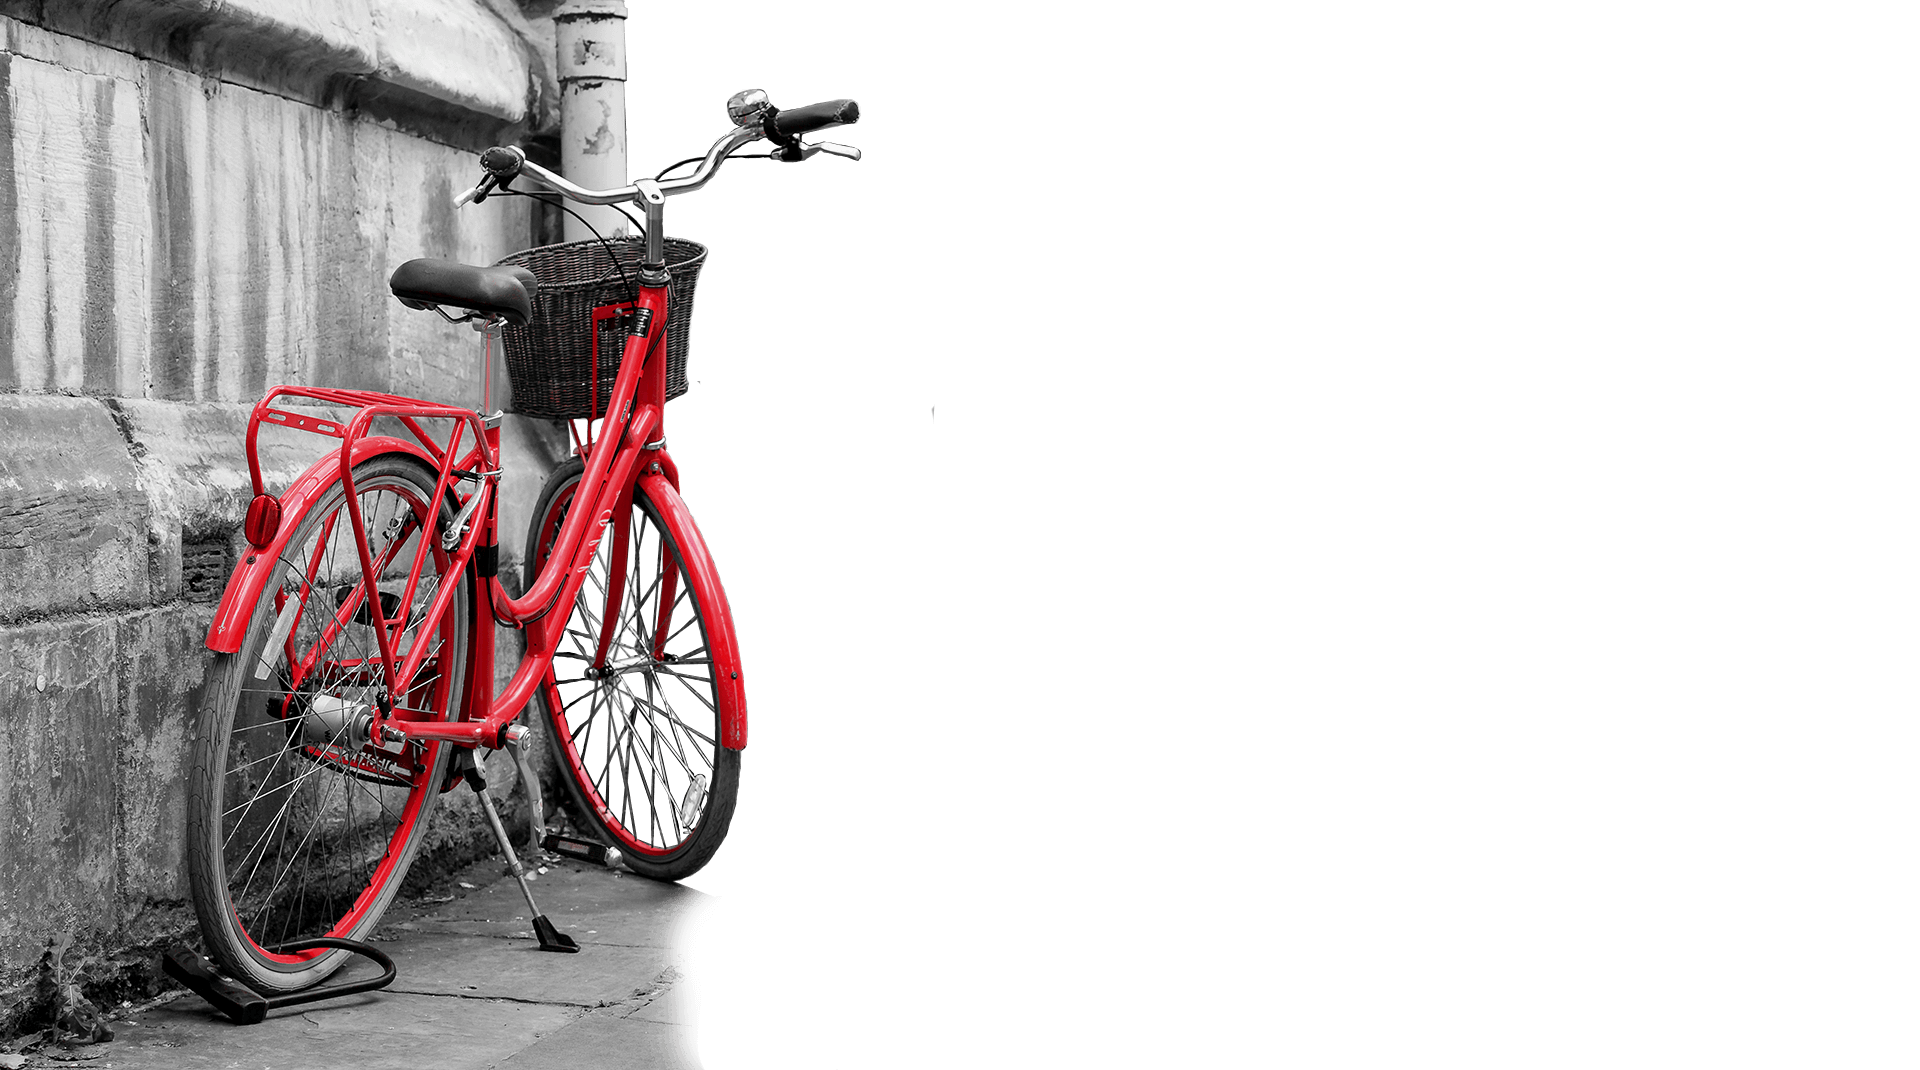
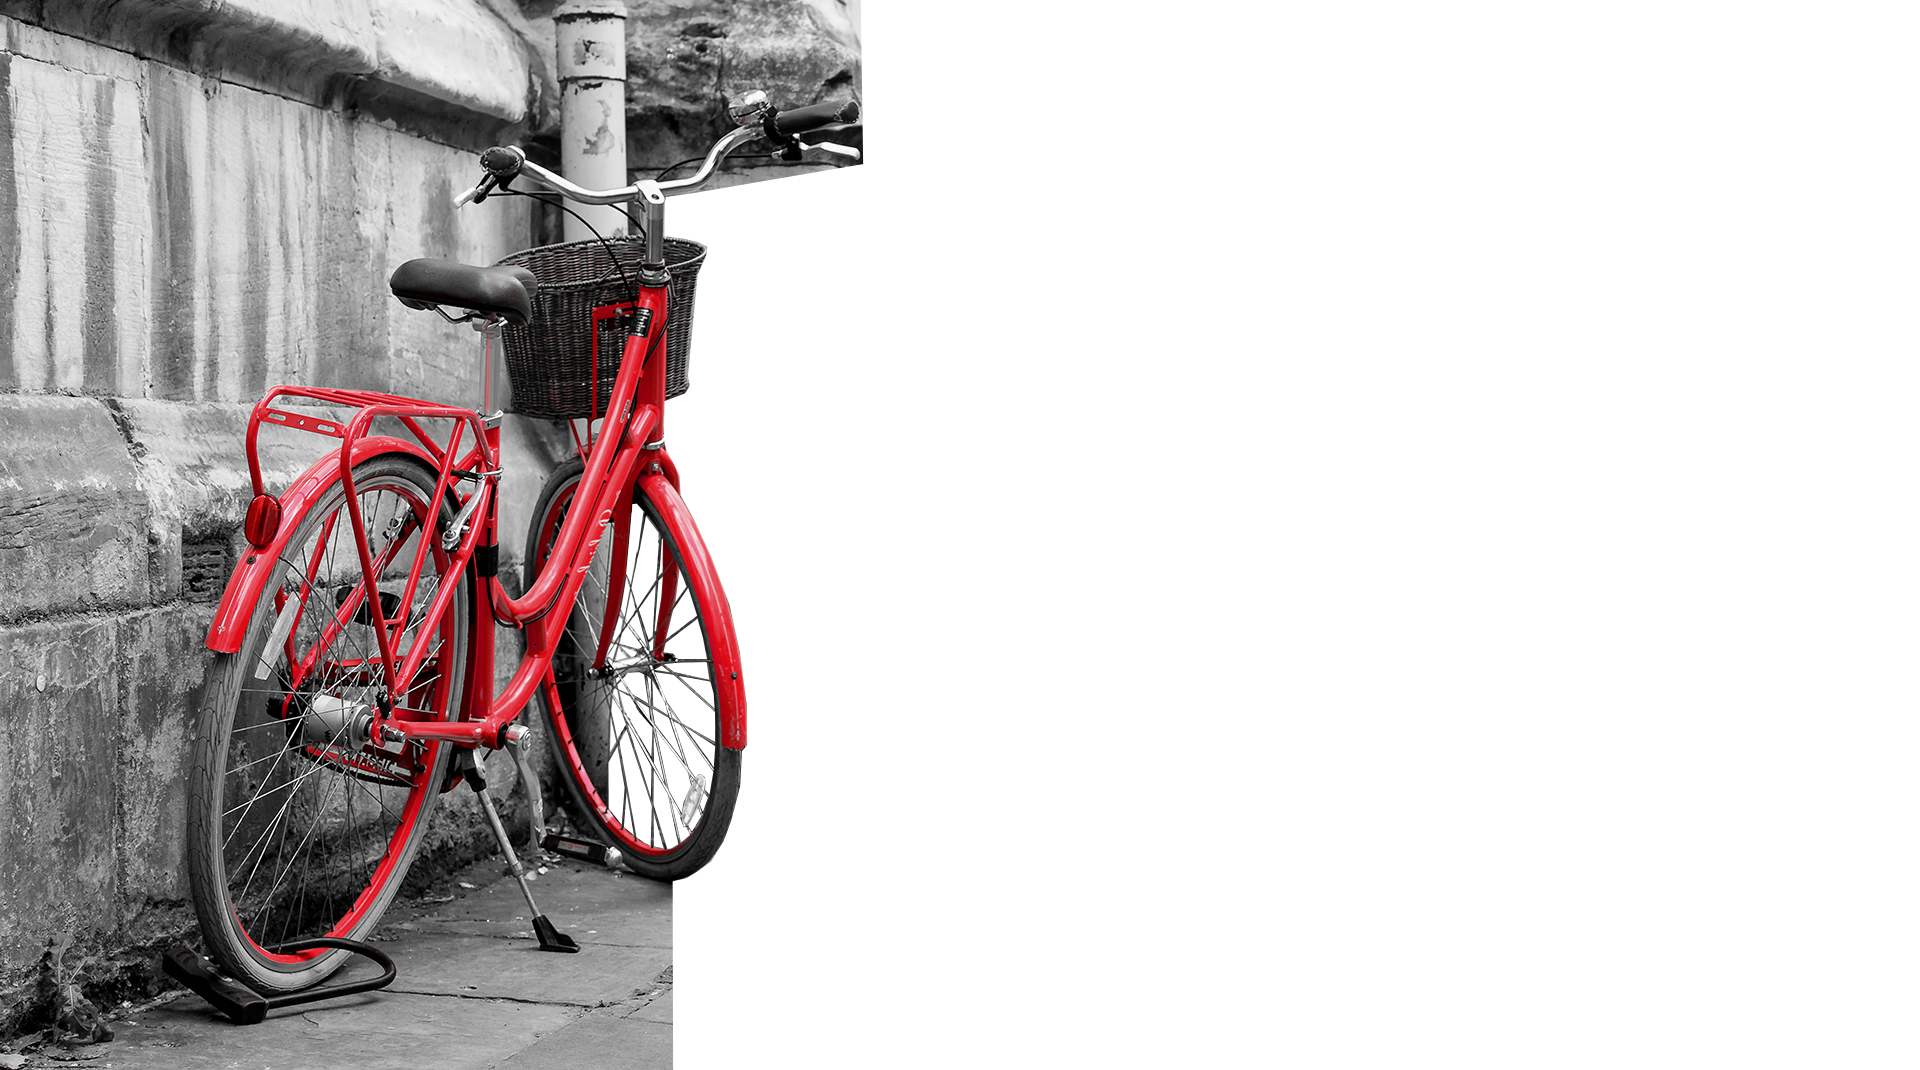
07/11 22.15

diff --git a/template/css/style.css b/template/css/style.css
@@ -131,7 +131,7 @@ button {
     background-image: url(../img/pc1920x1070.png);
     background-repeat: no-repeat;
     background-size: cover;
-    top: 350px;
+    top: 32vh;
     left: 710px;
     z-index: 9;
     overflow: hidden;
@@ -142,7 +142,7 @@ button {
         top:1070px;
     }
     100% {
-        top: 346px;
+        top: 32vh;
     }
 }
 
@@ -908,6 +908,10 @@ input.win-add-checkbox:checked + label span {
         background-size:1450px 800px;
         background-position: right bottom;
     }
+    #section3 .hover-block {
+        background-size:1450px 800px;
+        background-position: right bottom;
+    }
     #section4 .hover-block {
         background-size:1450px 800px;
         background-position: center;
@@ -993,6 +997,9 @@ input.win-add-checkbox:checked + label span {
         background-size:1280px 720px;
     }
     #section1 .hover-block {
+        background-size:1280px 720px;
+    }
+    #section3 .hover-block {
         background-size:1280px 720px;
     }
     .monitor {
@@ -1238,6 +1245,7 @@ input.win-add-checkbox:checked + label span {
     }
     #section3 .hover-block {
         background-image: url(../img/hover-bcg3-1024.png);
+        background-size:1024px 768px;
     }
     .monitor {
         width: 550px;
@@ -1498,7 +1506,8 @@ input.win-add-checkbox:checked + label span {
         background-size: 768px 1024px;
     }
     #section1 .hover-block {
-        display: none;
+        background: url(../img/hover-bcg1-768x1024.png) center no-repeat;
+        background-position: top left;
     }
     #section2 {
         background:url(../img/bcg2-768x1024.png);
@@ -1507,6 +1516,9 @@ input.win-add-checkbox:checked + label span {
     #section3 {
         background:url(../img/bcg3-768x1024.png);
         background-position: center;
+    }
+    #section3 .hover-block {
+        background: url(../img/hover-bcg3-768x1024.png) center no-repeat;
     }
     #section4 {
         background:url(../img/bcg4-768x1024.png);
@@ -1868,7 +1880,77 @@ input.win-add-checkbox:checked + label span {
     background-position: center center;
     margin-right: 0;
 }
-
+.call-order:hover {
+    animation:shaking 2s infinite;
+}
+@keyframes shaking {
+    0% {
+        transform: rotateZ(0deg);
+    }
+    2.5% {
+        transform: rotateZ(10deg);
+    }
+    5% {
+        transform: rotateZ(-10deg);
+    }
+    7.5% {
+        transform: rotateZ(10deg);
+    }
+    10% {
+        transform: rotateZ(-10deg);
+    }
+    12.5% {
+        transform: rotateZ(10deg);
+    }
+    15% {
+        transform: rotateZ(-10deg);
+    }
+    17.5% {
+        transform: rotateZ(10deg);
+    }
+    20% {
+        transform: rotateZ(-10deg);
+    }
+    22.5% {
+        transform: rotateZ(10deg);
+    }
+    25% {
+        transform: rotateZ(10deg);
+    }
+    27.5% {
+        transform: rotateZ(-10deg);
+    }
+    30% {
+        transform: rotateZ(10deg);
+    }
+    32.5% {
+        transform: rotateZ(-10deg);
+    }
+    35% {
+        transform: rotateZ(10deg);
+    }
+    37.5% {
+        transform: rotateZ(-10deg);
+    }
+    40% {
+        transform: rotateZ(10deg);
+    }
+    42.5% {
+        transform: rotateZ(-10deg);
+    }
+    45% {
+        transform: rotateZ(10deg);
+    }
+    47.5% {
+        transform: rotateZ(-10deg);
+    }
+    50% {
+        transform: rotateZ(0deg);
+    }
+    100% {
+        transform: rotateZ(0deg);
+    }
+}
 .languages {
     position: absolute;
     top: 0;
@@ -1959,6 +2041,16 @@ input.win-add-checkbox:checked + label span {
     }
 }
 
+@media all and (max-width: 1366px) {
+    .menu-desktop ul li {
+        margin-bottom: 0;
+        height: 55px;
+    }
+    .menu-desktop ul li a {
+        line-height: 55px;
+    }
+}
+
 @media all and (max-width: 1280px) {
     .phones {
         display: block;
@@ -1980,9 +2072,7 @@ input.win-add-checkbox:checked + label span {
     .languages {
         left: 70vw;
     }
-    .menu-desktop ul li {
-        margin-bottom: 0;
-    }
+    
 }
 
 @media all and (max-width: 1024px) {
@@ -2060,6 +2150,14 @@ input.win-add-checkbox:checked + label span {
         top: 180px;
         width: 465px;
         height: 430px;
+    }
+    @keyframes bottomAppearance {
+        0% {
+            left: calc(100% - 10px);
+        }
+        100% {
+            left: 150px;
+        }
     }
     .picture-box {
         top: 17px;
@@ -2577,5 +2675,118 @@ input.win-add-checkbox:checked + label span {
     }
     .menu-desktop ul {
         padding-top: 40px;
+    }
+}
+
+@media all and (width: 1024px) and (height: 1366px) {
+
+
+    .monitor {
+        left: 310px;
+        top:320px;
+    }
+    @keyframes bottomAppearance {
+        0% {
+            top: calc(100% + 10px);
+        }
+        100% {
+            top:320px;
+        }
+    }
+    #section1 {
+        background-image:url(../img/bcg1-iPadPro.png);
+        background-size: 1024px 1366px;
+    }
+    #section2 {
+        background-image:url(../img/bcg2-iPadPro.png);
+        background-size: 1024px 1366px;
+    }
+    #section3 {
+        background-image:url(../img/bcg3-iPadPro.png);
+        background-size: 1024px 1366px;
+    }
+    #section4 {
+        background-image:url(../img/bcg4-iPadPro.png);
+        background-size: 1024px 1366px;
+    }
+    #section5 {
+        background-image:url(../img/bcg5-iPadPro.png);
+        background-size: 1024px 1366px;
+        background-position: top left;
+    }
+    
+    #section1 .hover-block {
+        background-image: url(../img/hover-bcg1-iPadPro.png);
+        background-size: 1024px 1366px;
+    }
+    #section3 .hover-block {
+        background-image: url(../img/hover-bcg3-iPadPro.png);
+        background-size: 1024px 1366px;
+        background-position: top left;
+    }
+    #section4 .hover-block {
+        background-image: url(../img/hover-bcg4-iPadPro.png);
+        background-size: 1024px 1366px;
+        background-position: center;
+    }
+    #section5 .hover-block {
+        background-image: url(../img/hover-bcg5-iPadPro.png);
+        background-size: 1024px 1366px;
+        background-position: top left;
+    }
+}
+@media all and (width: 1366px) and (height: 1024px) {
+
+    .monitor {
+        left: 510px;
+        top:320px;
+    }
+    @keyframes bottomAppearance {
+        0% {
+            top: calc(100% + 10px);
+        }
+        100% {
+            top:320px;
+        }
+    }
+    #section1 {
+        background-image:url(../img/bcg1-iPadPro-album.png);
+        background-size: 1366px 1024px;
+    }
+    #section2 {
+        background-image:url(../img/bcg2-iPadPro-album.png);
+        background-size: 1366px 1024px;
+    }
+    #section3 {
+        background-image:url(../img/bcg3-iPadPro-album.png);
+        background-size: 1366px 1024px;
+    }
+    #section4 {
+        background-image:url(../img/bcg4-iPadPro-album.png);
+        background-size: 1366px 1024px;
+    }
+    #section5 {
+        background-image:url(../img/bcg5-iPadPro-album.png);
+        background-size: 1366px 1024px;
+    }
+    
+    #section1 .hover-block {
+        background-image: url(../img/hover-bcg1-iPadPro-album.png);
+        background-size: 1366px 1024px;
+    }
+    #section3 .hover-block {
+        background-image: url(../img/hover-bcg3-iPadPro-album.png);
+        background-size: 1366px 1024px;
+        background-position: top left;
+    }
+    #section4 .hover-block {
+        background-image: url(../img/hover-bcg4-iPadPro-album.png);
+        background-size: 1366px 1024px;
+        background-position: center;
+    }
+    #section5 .hover-block {
+        background-image: url(../img/hover-bcg5-iPadPro-album.png);
+        background-size: 1366px 1024px;
+        background-position: top left;
     }
 }
